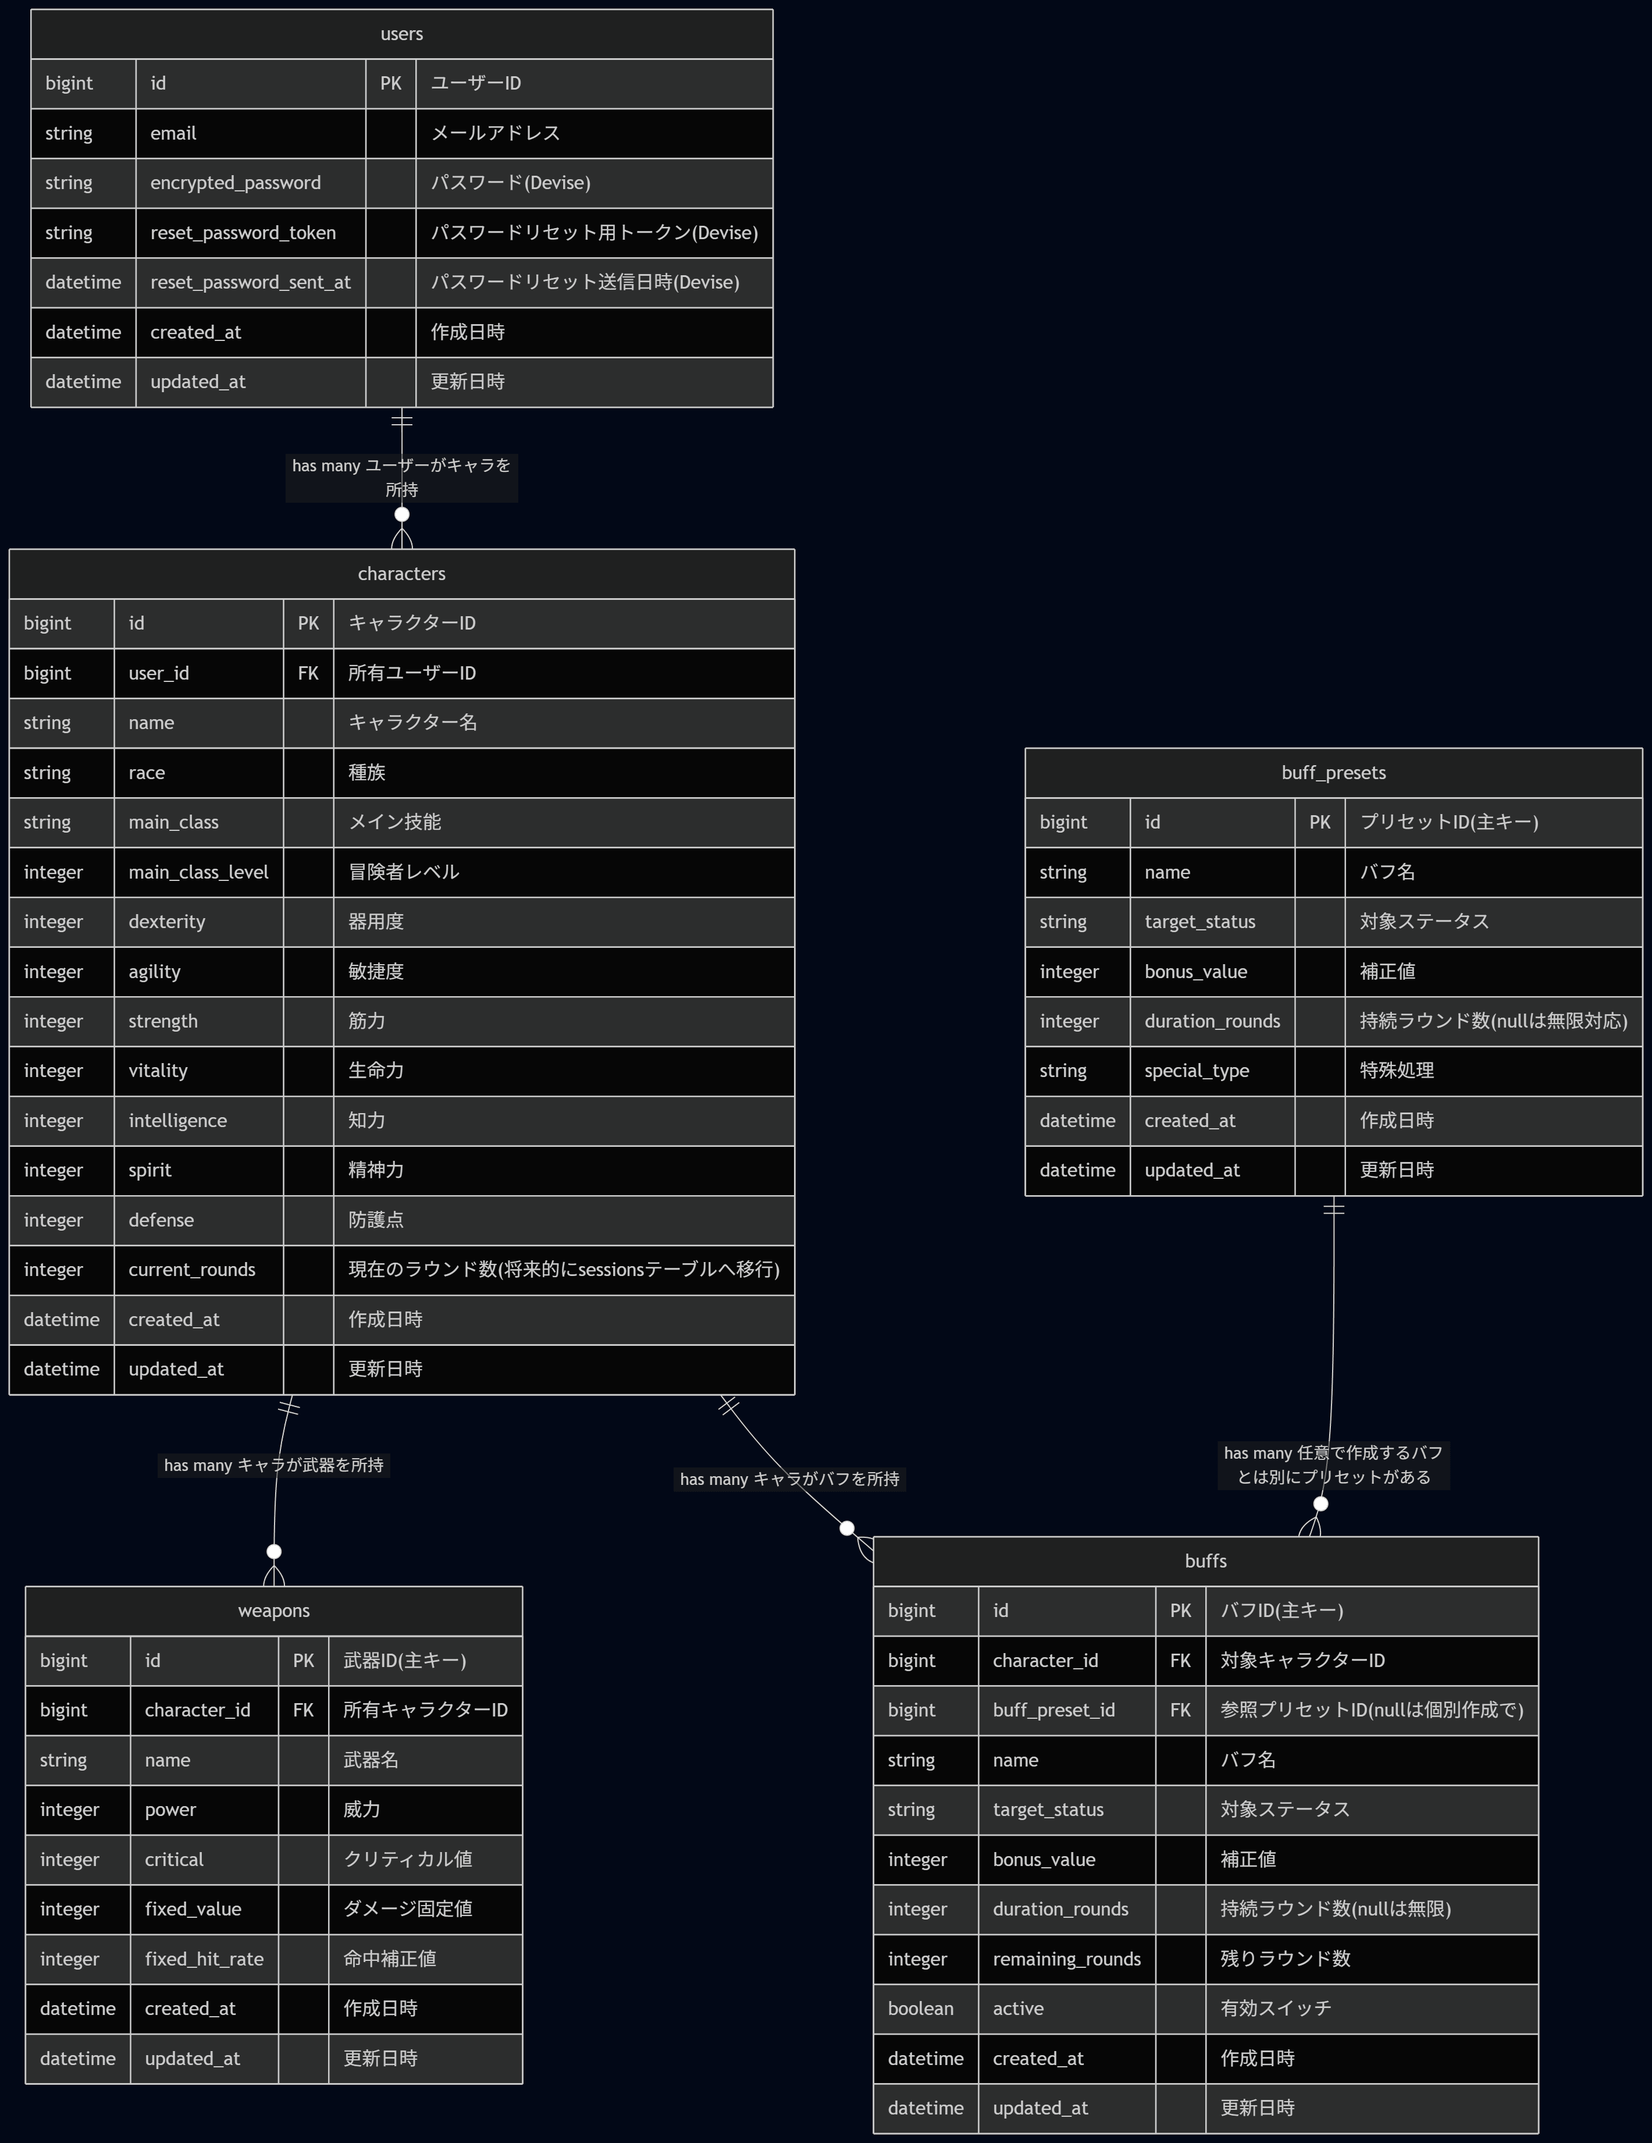
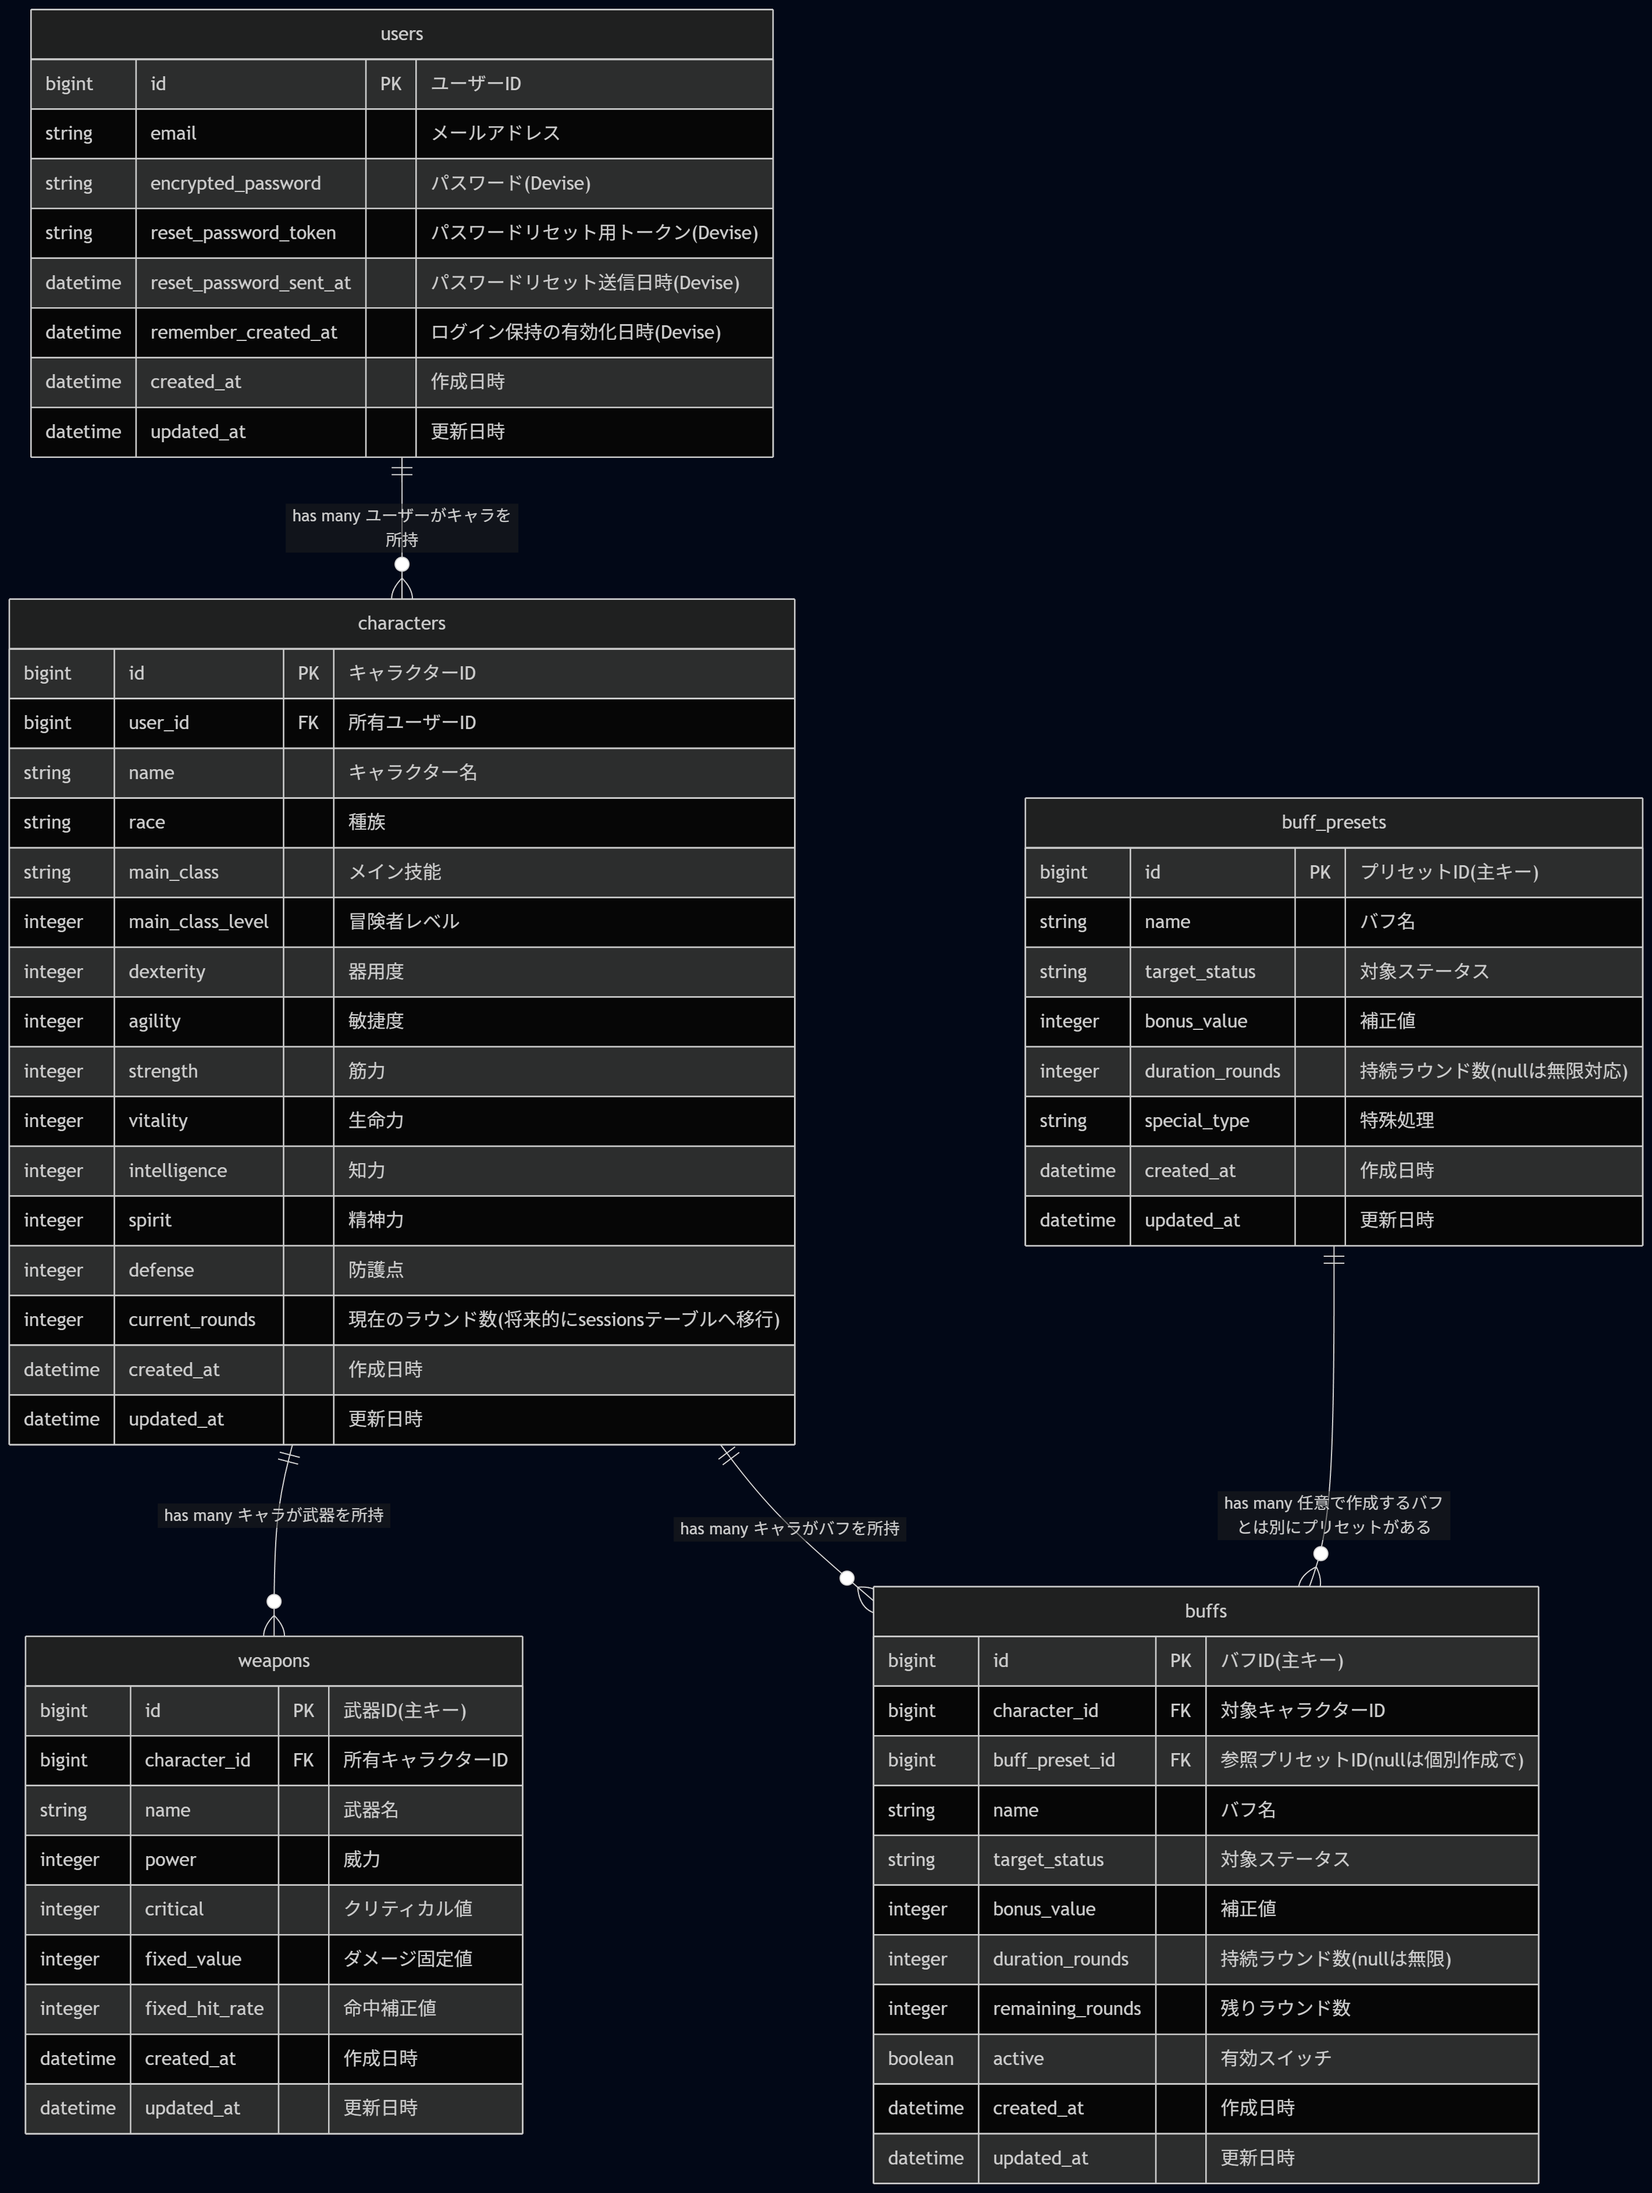
docs: ER図にusersテーブルのremember_created_atを追記
Devise導入に伴いusersテーブルを反映。Rememberable用カラムを追記し、
ER図画像も再生成。

Changed region(s): [[0.0, 0.0312, 0.9296, 0.9992], [0.6197, 0.3435, 1.0, 0.562]]

diff --git a/docs/ER.md b/docs/ER.md
@@ -21,6 +21,7 @@ erDiagram
         string encrypted_password "パスワード(Devise)"
         string reset_password_token "パスワードリセット用トークン(Devise)"
         datetime reset_password_sent_at "パスワードリセット送信日時(Devise)"
+        datetime remember_created_at "ログイン保持の有効化日時(Devise)"
         datetime created_at "作成日時"
         datetime updated_at "更新日時"
     }
